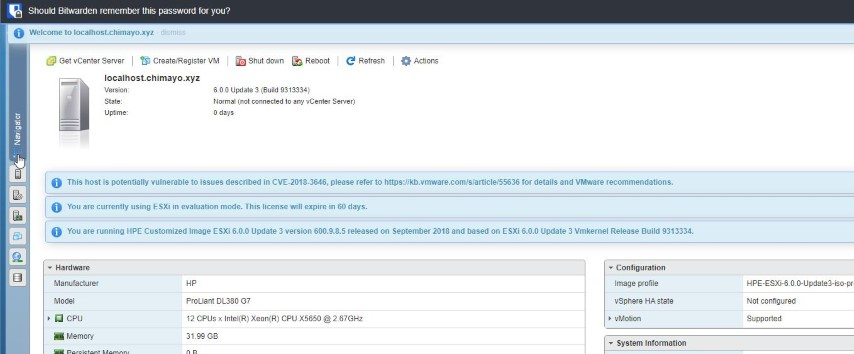
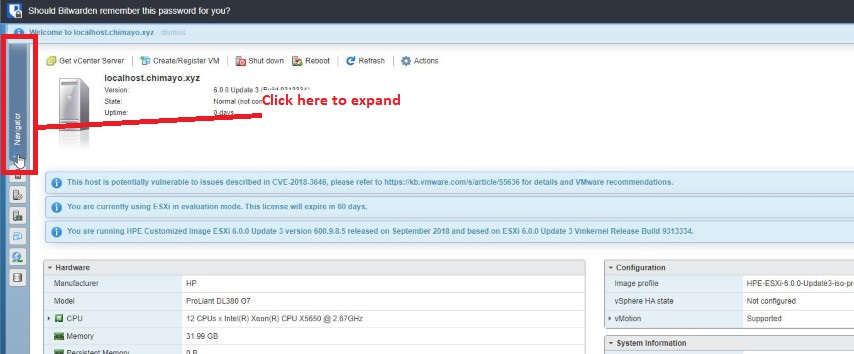
captions

Changed region(s): [[0.0, 0.0932, 0.3044, 0.4972], [0.3044, 0.2486, 0.4871, 0.3107]]

diff --git a/firstConfig.md b/firstConfig.md
@@ -58,10 +58,11 @@ With everything in the Server Setup section above ready, we are ready to get sta
 
          
 
-    3. The ILO menu will load. Press DOWN, ENTER and ENTER to exit that menu (screenshots 
-    [1](https://github.com/mynah22/Homelab-Guides/raw/main/screenshots/firstConfig/proliantILO1.jpg)
-    [2](https://github.com/mynah22/Homelab-Guides/raw/main/screenshots/firstConfig/proliantILO2.jpg)
-    [3](https://github.com/mynah22/Homelab-Guides/raw/main/screenshots/firstConfig/proliantILO3.jpg) )
+    3. The ILO menu will load. Press DOWN, ENTER and ENTER to exit that menu 
+        - (screenshots 
+        [1](https://github.com/mynah22/Homelab-Guides/raw/main/screenshots/firstConfig/proliantILO1.jpg)
+        [2](https://github.com/mynah22/Homelab-Guides/raw/main/screenshots/firstConfig/proliantILO2.jpg)
+        [3](https://github.com/mynah22/Homelab-Guides/raw/main/screenshots/firstConfig/proliantILO3.jpg) )
     4. *Immediately start pressing F8* -  you must press F8 while the RAID controller loads:
 
         ![raid controller loading](https://github.com/mynah22/Homelab-Guides/raw/main/screenshots/firstConfig/proliantRaidController2.jpg) 
@@ -70,9 +71,11 @@ With everything in the Server Setup section above ready, we are ready to get sta
 
     ![](https://github.com/mynah22/Homelab-Guides/raw/main/screenshots/firstConfig/proliantRaidDelete1.jpg)
 
-    The RAID menu you just entered is used to tell the raid controller what to do with attached drives
+    The RAID menu you just entered is used to configure RAID controller on how it will handle attached physical disks
     
     We will define what physical drives make up the 'logical drives' (RAID arrays that the hypervisor will see as a single disk). 
+
+    
     
     *Be prepared to lose all data on a drive if you change it's RAID configuration*
     
@@ -157,7 +160,7 @@ With everything in the Server Setup section above ready, we are ready to get sta
 8. Once installation is complete you will be presented with this [success screen](https://github.com/mynah22/Homelab-Guides/raw/main/screenshots/firstConfig/esxi600_Disks.jpg). 
 9. Remove the USB boot drive from the server, the press ENTER to reboot - ESXI will take a moment to shut down ([screenshot](https://github.com/mynah22/Homelab-Guides/raw/main/screenshots/firstConfig/esxi600_Disks.jpg)), then the server will reboot
 
-### **Connect to ESXI host**
+### **Network connection to ESXI management interface**
 With the USB drive removed and network cables disconnected from the server, it will attempt to boot from the logical drive assigned as the boot disk by the RAID array
 
 If all goes well, you should see ESXI begin to boot  (screenshots 
@@ -172,39 +175,46 @@ Once ESXI has booted, you will be presented with [this screen](https://github.co
 
 Further configuration is done via the ESXI webgui. This is a webserver running on the hypervisor that provides a graphical method for managing the hypervisor & Virtual Machines over HTTPS.
 
-* In order to connect to the webgui, we will have to place a pc with a web browser on the same network as the server, and ensure both are configured so that they can communicate
+In order to connect to the webgui, we will have to place a pc with a web browser on the same network as the server, and ensure both are configured so that they can communicate
 
 
-* There are two easy ways of doing this: DHCP and Link-Local (APIPA)
+There are two easy ways of doing this: DHCP and Link-Local (APIPA)
 
-1. DHCP
+1. **DHCP**
     - the Dynamic Host Configuration Protocol is an effective way for clients to obtain network configuration and unused IP addresses when they connect to a network
     - if you are following the 'Intro Network' architecture, all you have to do the ESXI webgui to obtain a DHCP address is:
         1. Use an ethernet cable to connect the first logical port of the server (labeled '1') to an open port on your home network
         1. ESXI will obtain a DHCP lease from your home router
-2. Link-local (APIPA)
+        2. after obtaining a DHCP lease, ESXI will display a screen like [this one](https://github.com/mynah22/Homelab-Guides/raw/main/screenshots/firstConfig/esxi_2.jpg) - note that the IP address will depend on the range of the DHCP server it obtained it's lease from
+2. **Link-local (APIPA)**
     - if a client does not get any responses from a DHCP server, it will grab a random IP in the Automatic Private IP Addressing (APIPA) range - 169.254.0.0/16 (255.255.0.0)
     - configuring a Link-Local network is as simple as placing devices on a network without a DHCP server:
         1. Disconnect your PC from all networks, including wireless
         2. Use an ethernet cable to connect the first logical port of the server (labeled '1') to an ethernet port on your PC
         3. After a short while, the DHCP clients on your PC and the server will time out, and obtain random APIPA addresses
+        4. Your server should display a screen like [this one](https://github.com/mynah22/Homelab-Guides/raw/main/screenshots/firstConfig/esxi_2.jpg) once it's attempts to communicate with a DCHP server have timed out. Note that the IP will depend on what random APIPA address your NIC has decided to use
 
 
-* Once the server obtains a DHCP or APIPA IP address, it will update the IP it displays
+*Again, the goal here is to have your computer on the same network as the ESXI webserver so that you can communicate with it. Checking your PC's subnet and pinging the IP on the server are obvious ways to confirm that you are on the same network*
 
-* When the server displays a valid IP address, use your PC on the same network to browse to that IP
 
-* Click through the Certificate Error (see note below)
+### **ESXI Web Management**
+Once your PC and ESXI management webserver are on the network, open a web browser and browse to the IP address shown on the ESXI status page (
+[DHCP](https://github.com/mynah22/Homelab-Guides/raw/main/screenshots/firstConfig/esxi_2.jpg) / 
+[APIPA](https://github.com/mynah22/Homelab-Guides/raw/main/screenshots/firstConfig/esxi_2.jpg))
 
-    - *Note: when you browse to the ESXI webgui, you will be presented with a certificate error. This is because the server is using a self-signed certificate - it is still safely encrypting your communication with the server, but it's identity is not vouched for by any authorities trusted by your machine. This also happens with PFSense later*
 
-* click 'Open the VMWare Host Client' to open the web interface
-    * the 'Download vSphere Client for Windows' will allow you to download windows-native management software. Feel free to grab it (you might like the interface better), but I will be using the webGUI for my guides. 
+
+ - Click through the [Certificate Error](https://github.com/mynah22/Homelab-Guides/raw/main/screenshots/firstConfig/esxi_2.jpg)
+    - *Note: when you browse to the ESXI webgui, you will be presented with a certificate error. This is because the server is using a self-signed certificate - it is still safely encrypting your communication with the server, but it's identity is not vouched for by any authorities trusted by your machine.*
+
+* On the [Welcome Screen]()click 'Open the VMWare Host Client' to open the web interface
 * congrats, you are now able to fully configure your server and VMs!
-* you can safely unplug the display and keyboard from the server - you will only need to connect them if you add disks later, otherwise all configuration will be done via the webgui
+* you can safely unplug the display and keyboard from the server - you will only need to connect them if you add disks later, otherwise all configuration will be done via the ESXI webgui
 
 ### License ESXI
-* once logged in to the webgui, click Manage (under Host) > licensing > assign licnese, and enter your ESXI 6 license key (you may have to expand the Navigator menu)
+* If it's not already expanded, click 'navigator' on the left side to expand the main menu
+![](https://github.com/mynah22/Homelab-Guides/raw/main/screenshots/firstConfig/ESXIExpandNavigator.jpg) click Manage (under Host) > licensing > assign license, and enter your ESXI 6 license key (you may have to expand the Navigator menu)
 
     1. Set up networking:
         * We will have to configure virtual networks in order to expose physical ports to our VMs
